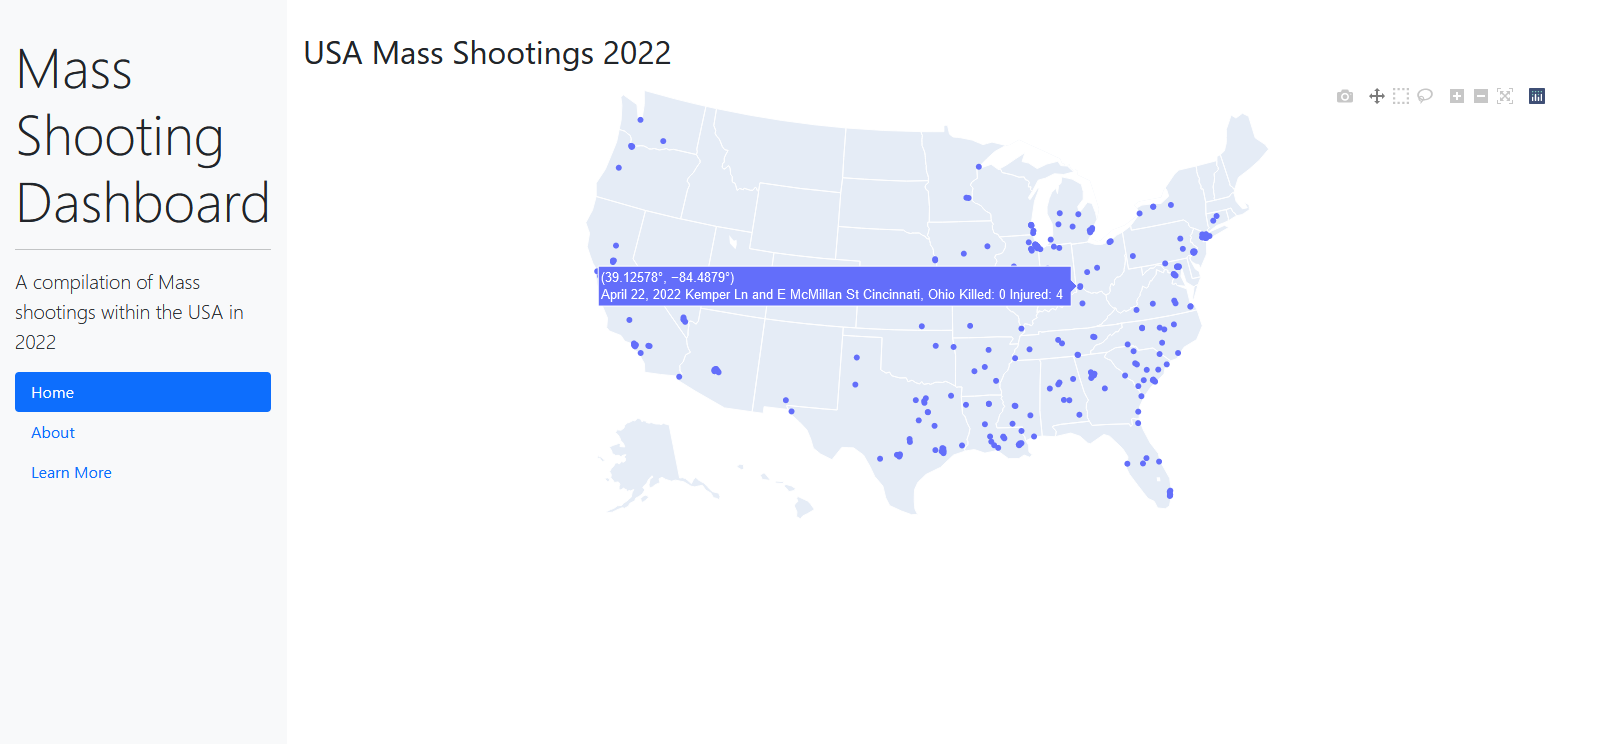
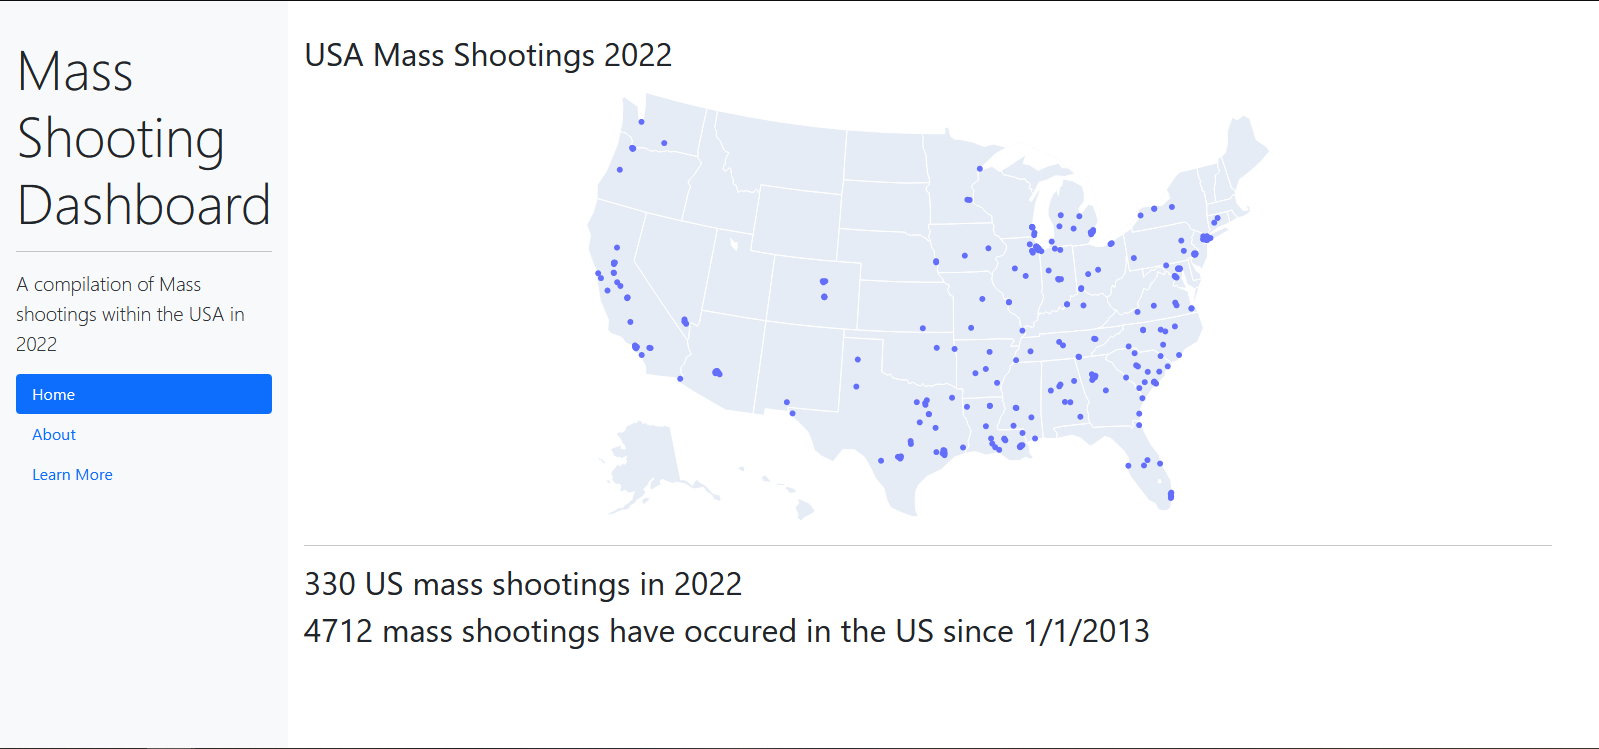
final updates on dashboard pages and pics of other pages

diff --git a/frontend/dashboard.py b/frontend/dashboard.py
@@ -79,7 +79,6 @@ fig = go.Figure(
     )
 )
 
-
 fig.update_layout(
     geo_scope="usa",
     autosize=True,
@@ -87,22 +86,48 @@ fig.update_layout(
     margin=dict(t=0, b=0, l=0, r=0)
 )
 
+about_page_1 = html.Div([
+    html.H1("Why was this dashboard created?"),
+    html.H3("This dashboard was created as a way of tracking gun violence within America as"
+            " a result of the mounting gun violence within the country"),
+
+    html.Hr(),
+
+    html.H1("Where did this data come from?"),
+    html.H3("The data for this dashboard was taken from the Gun Violence Archive (https://www.gunviolencearchive.org) "
+            "more links and websites similar to the Gun Violence Archive can be found in the Learn More page"),
+
+])
+
+learn_more_page_2 = html.Div([
+    html.H1("Gun Violence Archive"),
+    html.H3("https://www.gunviolencearchive.org"),
+    html.Hr(),
+    html.H1("The Violence project"),
+    html.H3("https://www.theviolenceproject.org"),
+    html.Hr(),
+    html.H1("Mass Shooting Tracker"),
+    html.H3("https://massshootingtracker.site"),
+])
+
 
 @app.callback(Output("page-content", "children"), [Input("url", "pathname")])
 def render_page_content(pathname):
     if pathname == "/":
-        #return html.P("This is the content of the home page!")
         return html.Div([
             html.H2("USA Mass Shootings 2022"),
             dcc.Graph(
                 id="mass_shooting_map",
                 figure=fig
             ),
+            html.Hr(),
+            html.H2("330 US mass shootings in 2022"),
+            html.H2("4712 mass shootings have occured in the US since 1/1/2013"),
         ])
     elif pathname == "/page-1":
-        return html.P("This is the content of page 1. Yay!")
+        return about_page_1
     elif pathname == "/page-2":
-        return html.P("Oh cool, this is page 2!")
+        return learn_more_page_2
     # If the user tries to reach a different page, return a 404 message
     return dbc.Jumbotron(
         [
@@ -111,6 +136,7 @@ def render_page_content(pathname):
             html.P(f"The pathname {pathname} was not recognised..."),
         ]
     )
+
 
 if __name__ == "__main__":
     df.head()
